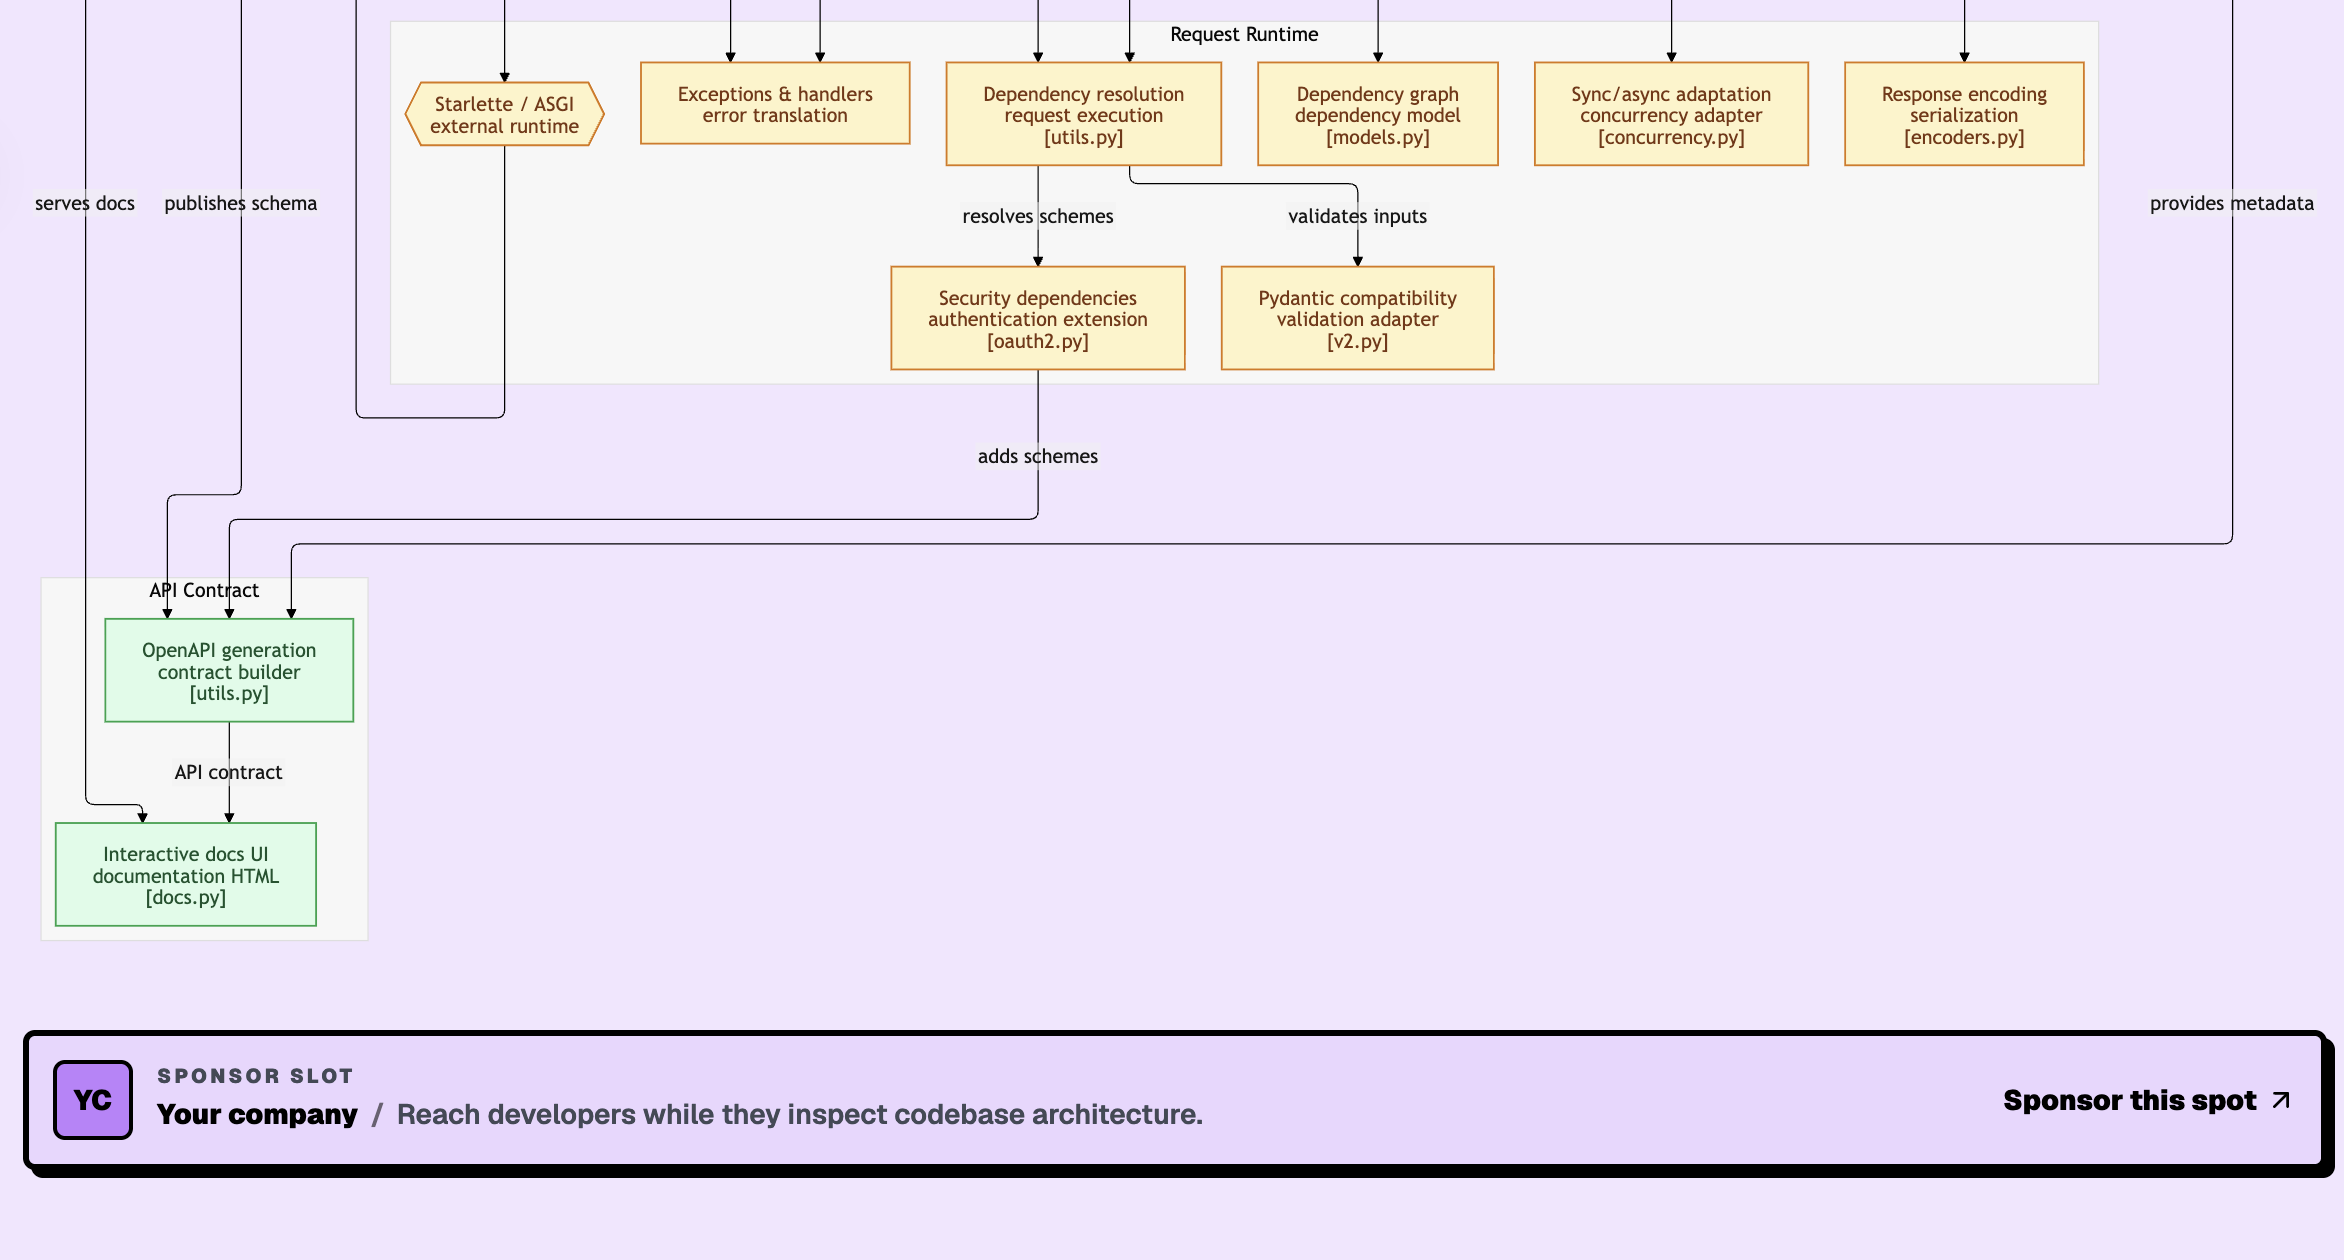
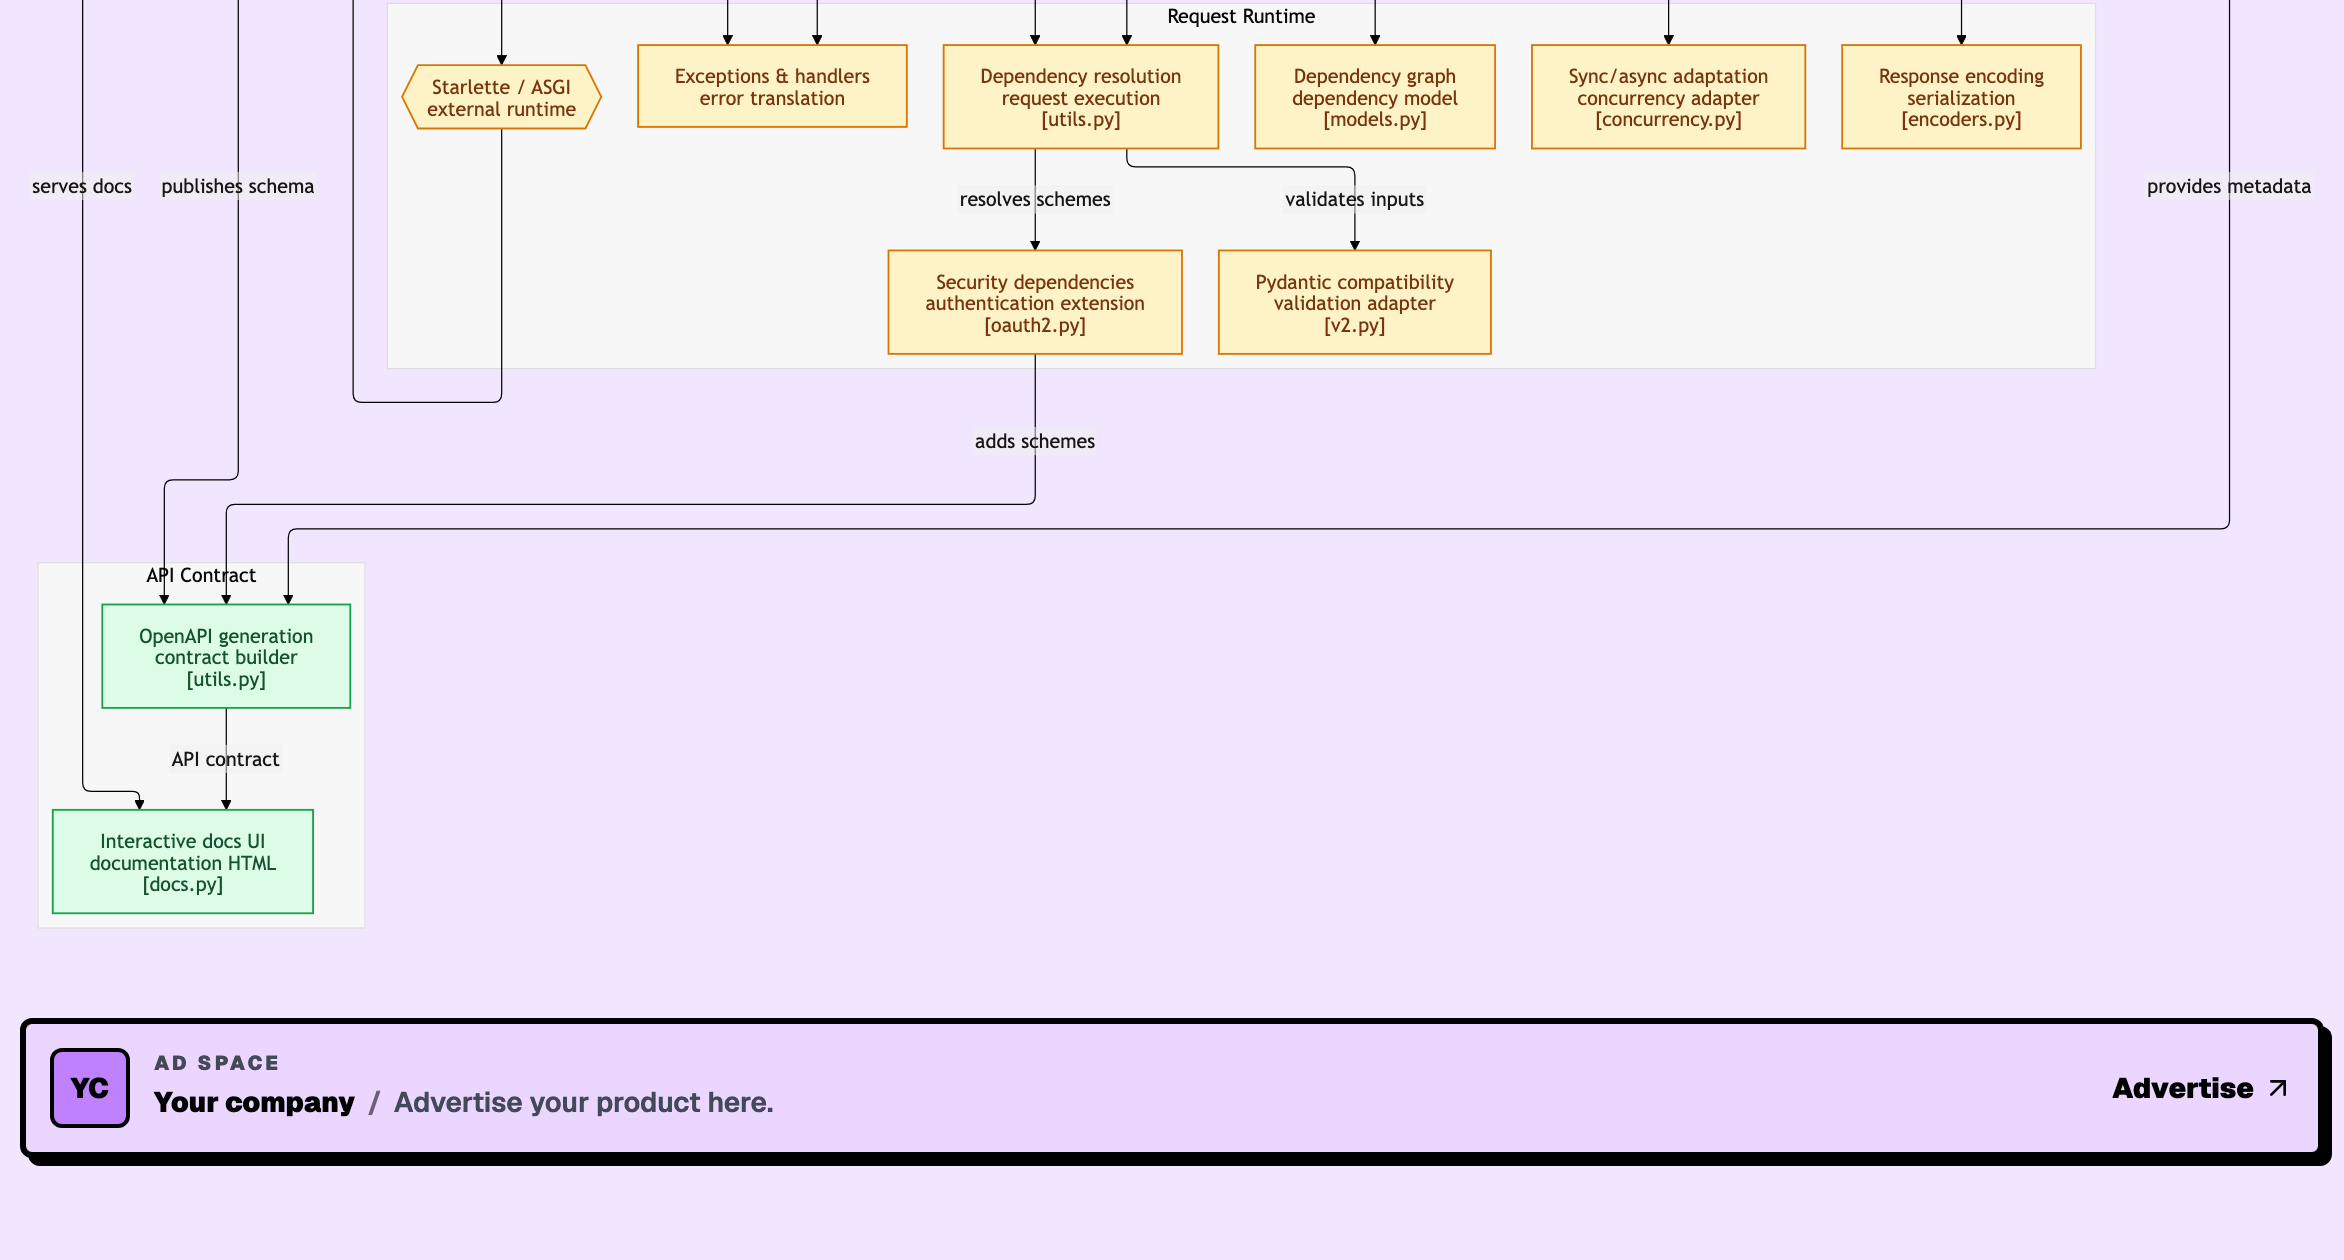
Simplify advertising page language and refresh placement previews

diff --git a/src/app/sponsor/sponsor-content.ts b/src/app/sponsor/sponsor-content.ts
@@ -44,9 +44,9 @@ const date = (value: string, includeTime = false) =>
 export function createSponsorContent(stats: SponsorStats) {
   const monthly: SponsorMetric[] = [
     {
-      label: "Tracked unique visitors",
+      label: "Visitors",
       value: format(stats.monthlyVisitors),
-      detail: "Unique, across GitDiagram",
+      detail: "Across GitDiagram",
     },
     {
       label: "Pageviews",
@@ -56,14 +56,14 @@ export function createSponsorContent(stats: SponsorStats) {
     {
       label: "Repo page visitors",
       value: format(stats.repoVisitors),
-      detail: "Unique visitors to repository pages",
+      detail: "Visitors to repository pages",
     },
   ];
   const lifetime: SponsorMetric[] = [
     {
-      label: "Tracked unique visitors",
+      label: "Visitors",
       value: format(stats.lifetimeVisitors),
-      detail: `Tracked since ${date(stats.trackedSince)}`,
+      detail: `Since ${date(stats.trackedSince)}`,
     },
     {
       label: "Pageviews",
@@ -86,7 +86,7 @@ export function createSponsorContent(stats: SponsorStats) {
         src: "/sponsor-previews/diagram.png",
         width: 2344,
         height: 1260,
-        highlight: { x: 14, y: 1018, width: 2310, height: 170 },
+        highlight: { x: 20, y: 1018, width: 2304, height: 140 },
         alt: "The FastAPI architecture diagram with the full-width sponsor slot directly beneath it.",
         caption: "A full-width placement beneath the generated diagram.",
       },
@@ -100,7 +100,7 @@ export function createSponsorContent(stats: SponsorStats) {
         src: "/sponsor-previews/home.png",
         width: 1794,
         height: 1346,
-        highlight: { x: 186, y: 1056, width: 1420, height: 148 },
+        highlight: { x: 199, y: 1084, width: 1396, height: 120 },
         alt: "GitDiagram’s homepage with the sponsor slot below the repository input and example repositories.",
         caption: "Inside the repository lookup panel, below the examples.",
       },
@@ -114,7 +114,7 @@ export function createSponsorContent(stats: SponsorStats) {
         src: "/sponsor-previews/browse.png",
         width: 2388,
         height: 1434,
-        highlight: { x: 58, y: 1098, width: 2276, height: 184 },
+        highlight: { x: 48, y: 924, width: 2292, height: 188 },
         alt: "GitDiagram’s browse catalog with a dedicated sponsor row between the first two repository listings.",
         caption: "A dedicated row immediately after the first repository.",
       },
@@ -126,9 +126,9 @@ export function createSponsorContent(stats: SponsorStats) {
         "A sponsor mention near the top of GitDiagram’s GitHub README, linking directly to your product.",
       preview: {
         src: "/sponsor-previews/readme.png",
-        width: 1804,
+        width: 1756,
         height: 1000,
-        highlight: { x: 60, y: 330, width: 1714, height: 76 },
+        highlight: { x: 40, y: 333, width: 1676, height: 48 },
         alt: "GitDiagram’s README on GitHub with the sponsor mention between the introduction and Features section.",
         caption: "Below the introduction, before the Features section.",
       },

diff --git a/src/app/sponsor/sponsor-page-content.tsx b/src/app/sponsor/sponsor-page-content.tsx
@@ -39,15 +39,14 @@ export function SponsorPageContent({ content }: { content: SponsorContent }) {
     <main className={styles.page}>
       <section className={styles.hero}>
         <h1>
-          Bring developers
+          Advertise on
           <br />
-          <span>to your product.</span>
+          <span>GitDiagram.</span>
         </h1>
         <p className={styles.introduction}>
-          GitDiagram had{" "}
-          <strong>{content.monthlyVisitors} tracked unique visitors</strong> in
-          the last 30 days. Reach developers as they explore GitHub
-          repositories, with placements that link directly to your website.
+          GitDiagram had <strong>{content.monthlyVisitors} visitors</strong> in
+          the last 30 days. Advertise your product on the homepage, repository
+          diagrams, browse catalog, and GitHub README.
         </p>
         <p className={styles.offerSummary}>
           <span>
@@ -85,9 +84,8 @@ export function SponsorPageContent({ content }: { content: SponsorContent }) {
             <time dateTime={content.asOf}>Updated {content.updatedAt}.</time>
           </p>
           <p>
-            Figures refresh about every five minutes. The 30-day window ends at
-            the time shown. Visitors are unique within each window. Pageviews
-            measure site traffic, not sponsor impressions.
+            Numbers update about every five minutes. Each visitor is counted
+            once per time period. Pageviews count views of pages, not ads.
           </p>
         </div>
       </section>

diff --git a/src/app/sponsor/page.tsx b/src/app/sponsor/page.tsx
@@ -4,9 +4,9 @@ import { SponsorPageContent } from "./sponsor-page-content";
 import { createSponsorContent } from "./sponsor-content";
 
 export const metadata: Metadata = {
-  title: "Sponsor GitDiagram",
+  title: "Advertise on GitDiagram",
   description:
-    "Reach developers while they are actively inspecting GitHub repositories with GitDiagram.",
+    "Advertise your product on GitDiagram’s homepage, repository diagrams, browse catalog, and GitHub README.",
   alternates: { canonical: "/sponsor" },
 };
 

diff --git a/docs/sponsor-preview-images.md b/docs/sponsor-preview-images.md
@@ -1,14 +1,15 @@
 # Sponsor placement screenshots
 
-The images in `public/sponsor-previews` were captured on September 18, 2026
+The images in `public/sponsor-previews` were captured on September 19, 2026
 from the running application and the public GitHub README. They show the actual
-unfilled placements; no sponsor branding or page content was substituted.
+unfilled placements with the current advertising copy; no sponsor branding or
+page content was substituted.
 
 | Image         | Source                                           | Framing                                                            |
 | ------------- | ------------------------------------------------ | ------------------------------------------------------------------ |
 | `home.png`    | Local `/`                                        | Homepage heading, lookup panel, and sponsor slot                   |
 | `diagram.png` | Local `/fastapi/fastapi`                         | Lower portion of the saved diagram and the sponsor slot beneath it |
-| `browse.png`  | Local `/browse?sort=stars_desc`                  | Catalog controls, first two repositories, and the sponsor row      |
+| `browse.png`  | Local `/browse?sort=stars_desc`                  | Catalog controls, first repository listings, and the sponsor row   |
 | `readme.png`  | `https://github.com/ahmedkhaleel2004/gitdiagram` | README introduction, sponsor mention, and Features section         |
 
 Refresh these screenshots when a placement changes. Capture at 2x pixel density,
